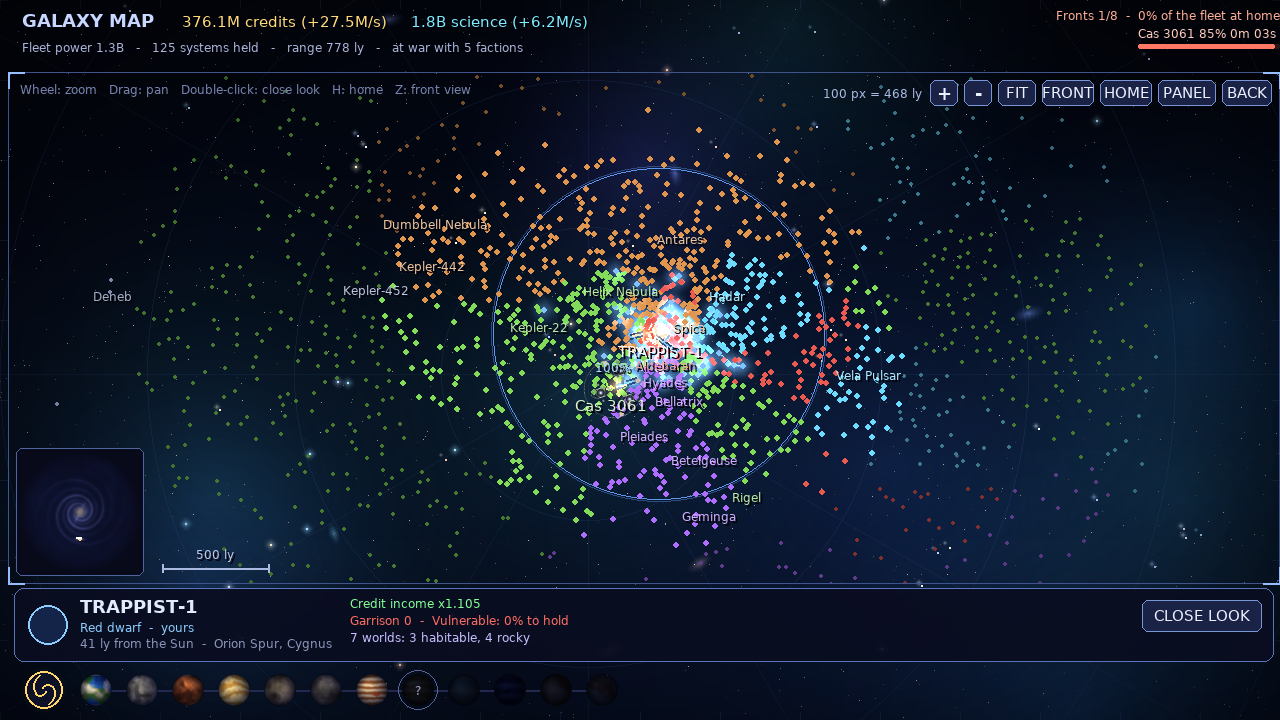
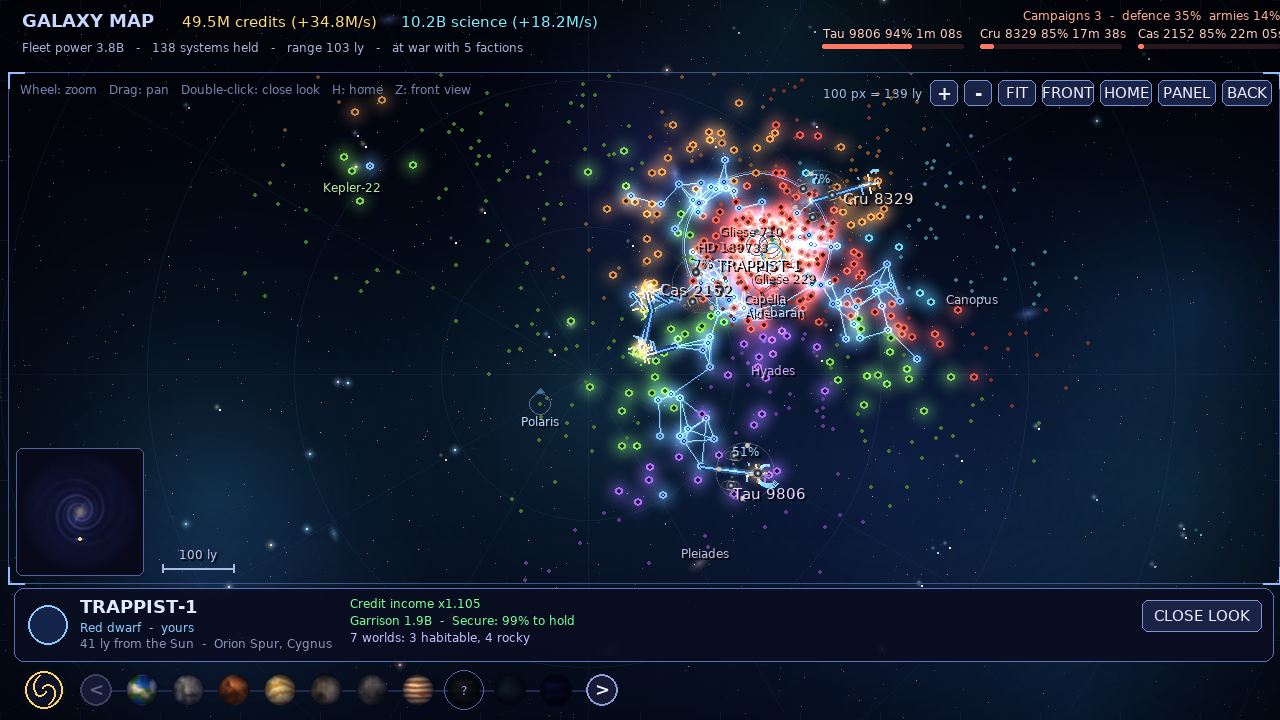
README, changelog and screenshots for the colony worlds

diff --git a/README.md b/README.md
@@ -6,7 +6,7 @@ An idle game for Linux, written in Python with [pygame](https://www.pygame.org).
 
 - **No assets, no dependencies except pygame** - every planet, ship, asteroid and effect is drawn by code at start-up.
 - **Idle-friendly** - your fleets keep mining while the game is closed (up to 8 hours), and it autosaves every 15 seconds.
-- **A lot of content** - 12 planets, 10 ship classes per planet, 68 upgrades per planet, 6 colony buildings per planet, 12 megaprojects, 31 techs, 22 Dark Matter perks, 9 kinds of random events, rotating quests, **the real Milky Way to conquer, with more than 6,000 star systems**, **New Game+ with Stardust** and **195 achievements**. Sound effects are generated by code too, and there is a developer mode for testing.
+- **A lot of content** - 12 planets in the solar system and **every world of every star you liberate (about 15,900 of them) to settle and play**, 10 ship classes per planet, 68 upgrades per planet, 6 colony buildings per planet, 12 megaprojects, 32 techs, 22 Dark Matter perks, 9 kinds of random events, rotating quests, **the real Milky Way to conquer, with more than 6,000 star systems**, **New Game+ with Stardust** and **200 achievements**. Sound effects are generated by code too, and there is a developer mode for testing.
 
 ## Download
 
@@ -222,9 +222,9 @@ The solar system ends at the **Kuiper Belt**: a dwarf world of ice with dark tho
 
 ![The Kuiper Belt and its fleet](screenshots/72-kuiper-belt.png)
 
-**The planets of other stars.** Liberating a star shows you what orbits it. Open the **Planets** tab and its **Other systems** page: every world you have found, nearest star first, with filters (*All*, *Habitable*, *Rocky*, *Giants*, and the star you selected on the map), a card with the world's picture, size, temperature, year and distance from its star, and a *Show on the map* button. The map's bar tells you how many worlds a system you hold has, a toast announces the stars with real planets and the first habitable world you find, and the Planets tab shows a dot while there are worlds you have not looked at.
+**The planets of other stars.** Liberating a star shows you what orbits it. Open the **Planets** tab and its **All worlds** page: every world you have found, nearest star first, with filters (*All*, *Habitable*, *Rocky*, *Giants*, and the star you selected on the map), a card with the world's picture, size, temperature, year and distance from its star, and a *Show on the map* button. The map's bar tells you how many worlds a system you hold has, a toast announces the stars with real planets and the first habitable world you find, and the Planets tab shows a dot while there are worlds you have not looked at.
 
-![The Other systems page: the real planets of TRAPPIST-1 and Proxima Centauri](screenshots/78-other-systems.png)
+![The All worlds page: the real planets of TRAPPIST-1 and Proxima Centauri](screenshots/78-all-worlds.png)
 
 About 30 of the game's real stars (TRAPPIST-1, Proxima Centauri, Kepler-186, Tau Ceti, 55 Cancri, Gliese 581 and 667...) show their **real, confirmed planets** from the [Open Exoplanet Catalogue](https://github.com/OpenExoplanetCatalogue/oec_gzip) (MIT licence): 89 in all, with their real names, sizes, temperatures, years and the year they were found. Every other star gets a generated system that fits its kind - a red dwarf several small close-in planets, a giant or a pulsar a few, a nebula or a cluster none - and it is the same every time, because it is worked out from the star and not stored in the save. Each world is sorted by its size and temperature into one of ten kinds - *temperate*, *ocean*, *rocky*, *desert*, *ice*, *lava*, *dwarf planet*, *sub-Neptune*, *ice giant* and *gas giant* (some with rings) - and has its own procedural picture.
 
@@ -232,7 +232,25 @@ About 30 of the game's real stars (TRAPPIST-1, Proxima Centauri, Kepler-186, Tau
 
 ![The map's bar names the worlds of a system you hold](screenshots/80-map-worlds.png)
 
-For now the worlds are a collection to find, not something to mine or build on: they do not change the pace of the game (only the achievements they add do, a little). They come with achievements of their own: *First Light* to *Worldbuilder* (5,000 worlds), *Goldilocks* to *A Home for Everyone* (habitable worlds), *Known Worlds* and *Exoplanet Archivist* (real planets), *Planetary Zoo* (all ten kinds) and *Seven Sisters* (liberate TRAPPIST-1).
+They come with achievements of their own: *First Light* to *Worldbuilder* (5,000 worlds), *Goldilocks* to *A Home for Everyone* (habitable worlds), *Known Worlds* and *Exoplanet Archivist* (real planets), *Planetary Zoo* (all ten kinds) and *Seven Sisters* (liberate TRAPPIST-1).
+
+#### Colony worlds: the whole galaxy is the game
+
+The twelve planets of the solar system are only the first system. **Every world of every star you liberate can be settled** and played like a planet of its own: its own ore, its own fleet, upgrades, colony buildings and planet bonus. Open the **Planets** tab and its **Colonies** page.
+
+![The Colonies page: the worlds of the stars you hold, with their prices](screenshots/81-colonies.png)
+
+- **Tiers.** Every planet has an economy *tier*: its ore is worth 10 times more per tier, and its ships and buildings are priced on it. A solar planet's tier is its place in the line (Earth 0 ... the Kuiper Belt 11). The tier of any other world follows from the **strength of its star**: a weak star near the Sun gives tier 3 worlds (Venus-class), TRAPPIST-1 tier 5 (Ceres-class), the strong and far stars tier 9 and 10.
+- **Settling.** A world costs a share of the unlock price of a solar planet of its tier, paid in the ore of the planets of the **two tiers before it** - any planet of those tiers pays, the richest you have, solar or colony - and credits. It costs 6% more for every colony you already have. If you have no planet of the tier before it yet, the world is *waiting*. The page lists the worlds that are *ready*, the ones you have *settled*, the ones *waiting*, and the worlds of the *selected star*; **Settle all** settles everything you can pay for, and the **Colonial Office** tech can settle one by itself every few seconds (*Auto-settle* on the page).
+- **Bonuses.** The first world of each of the ten kinds you settle brings that kind's planet bonus (temperate: credit income x1.1, lava: all ore x1.15, gas giant: fleet power x1.1...); later worlds of the same kind bring none. Every colony adds 0.3% to your production.
+- **Fleets.** A colony flies the ships of the solar planet its kind of world looks like: desert worlds the Mars ships, gas giants the Jupiter ones, ocean worlds the Neptune ones, with a hint of their own colour.
+- **The strip and the planet view.** The planet strip at the bottom scrolls (arrows at both ends) and shows your settled worlds after the solar planets; a colony has the same tabs as any planet (ships, upgrades, colony buildings; no megaproject), its own asteroids and its own ore.
+
+![Settled worlds: each one a planet of its own](screenshots/82-colonies-settled.png)
+
+![A colony world: TRAPPIST-1-class ocean planet mining Brinite](screenshots/83-colony-planet.png)
+
+**Why they are slow-burn.** Dozens of full planets would be dozens of engines, so a colony is built to be an empire to grow rather than a shortcut: it mines **10%** of the ore a solar planet of its tier would, its ships fight at **10%**, its Fusion Reactors and Defense Grids count 2% and its Habitat Domes and Research Labs 1%. With the balancing bot (which settles worlds as soon as it can) the game keeps its pace: the first Ascension still comes after about 45 - 55 hours and the Kuiper Belt a bit sooner than before. **Warp** keeps your colonies, **Ascension** takes them with the rest of your planets.
 
 A "Next planet" progress bar in the top-left corner shows how close you are, and hovering a planet in the bottom strip lists exactly what it costs.
 
@@ -274,7 +292,7 @@ Every planet also has one **megaproject** at the bottom of its Colony tab. It co
 
 ### 5. Tech tree
 
-Science buys the **Tech** tree: 31 techs with prerequisites. They include automatic ship buying and upgrade buying (they only ever spend up to 25% of a stockpile so you can still save for planets), automatic crate collection, big production multipliers, cheaper ships, head-start ore after a Warp and more. Techs stay forever.
+Science buys the **Tech** tree: 32 techs with prerequisites. They include automatic ship buying and upgrade buying (they only ever spend up to 25% of a stockpile so you can still save for planets), automatic crate collection, big production multipliers, cheaper ships, head-start ore after a Warp and more. Techs stay forever.
 
 ![Tech tree](screenshots/06-tech-tree.png)
 
@@ -584,7 +602,7 @@ The price of going again: in cycle *n* planets and megaprojects cost more (`1 + 
 
 ### 10. Achievements
 
-There are **195 achievements** in 12 categories: Mining, Fleet, Planets, Colony, Projects, Science, Wealth, Quests, Warp, Galaxy, General and a handful of **Secret** ones whose name and description stay hidden until you earn them.
+There are **200 achievements** in 12 categories: Mining, Fleet, Planets, Colony, Projects, Science, Wealth, Quests, Warp, Galaxy, General and a handful of **Secret** ones whose name and description stay hidden until you earn them.
 
 - Every achievement has a **tier** - bronze (+0.5% production), silver (+1%), gold (+2%) or platinum (+4%) - so completing everything is worth roughly **+200%** to all production.
 - The **Awards** tab shows a **progress bar** for every unfinished achievement, sorted so the ones closest to done are at the top. Use the category chips to filter.
@@ -628,7 +646,7 @@ Press **F1** to jump to the Dev tab and back. A red `DEV MODE` badge shows in th
 |---|---|
 | Time | Skip +1 hour / +1 day / +30 days of production, game speed x1 / x5 / x20 / x100 |
 | Resources | Add or multiply ore, credits, science and Dark Matter, **infinite resources**, **god mode** (production x1000), clear everything |
-| Planets | Unlock the next planet, unlock all, relock all but Earth |
+| Planets | Unlock the next planet, unlock all the solar planets, settle the worlds of the stars you hold (free), relock all but Earth |
 | Fleet & upgrades | Give ships to this planet or all planets, every upgrade for free |
 | Colonies & megaprojects | Max every building, build one or all megaprojects |
 | Tech, perks & quests | Research everything, grant or reset every Dark Matter perk, complete or reroll quests |
@@ -661,9 +679,9 @@ The pacing (planets, megaprojects and the march to the Galactic Centre) was tune
 | Ceres / Jupiter | 5 - 17 hours |
 | Saturn / Uranus | 15 - 33 hours |
 | Neptune / Pluto | 25 - 55 hours |
-| Kuiper Belt | 45 - 70 hours |
+| Kuiper Belt | 25 - 45 hours |
 | Every megaproject built | 50 - 100 hours |
-| The final boss (Void Throne) | 65 - 90 hours |
+| The final boss (Void Throne) | 45 - 70 hours |
 | First Ascension, then every later cycle | after the boss; cycles of ~40 - 65 hours |
 
 Enemy raids and counter-offensives are included in these numbers (the bot defends itself with Intel and Fortify); small raids that get through only cost a little ore. Warping a few times along the way speeds this up a lot. Playing less often just means the numbers go up while you are away.
@@ -704,7 +722,8 @@ Enemy raids and counter-offensives are included in these numbers (the bot defend
 | `ships.py` | The twelve per-planet ship rosters: names, descriptions, colours and how the ships fly. No pygame |
 | `galaxy.py` | The Milky Way the galaxy map is played on: every system's power and reward, the lanes, the jump range and the reach map. No pygame |
 | `worlds.py` | The planets of the other star systems: real ones from the Open Exoplanet Catalogue, generated ones for the rest, their kinds and the achievements they bring. No pygame |
-| `worldview.py` | The *Other systems* page of the Planets tab and the worlds line of the map's bar |
+| `colonies.py` | Colony worlds: turns any world into a planet you can settle (tier from the strength of its star, ore, bonus, ship family) and holds the balance numbers. No pygame |
+| `worldview.py` | The *Colonies* and *All worlds* pages of the Planets tab and the worlds line of the map's bar |
 | `milkyway.py` | The shape of the galaxy (spiral arms, bar, bulge) used to place the systems and to paint the map. No pygame |
 | `sim.py` | A greedy bot that plays the game headless and prints a pacing timeline |
 | `calibrate.py` | Searches for planet, megaproject and enemy-strength values that hit a target timeline using the bot |

diff --git a/CHANGELOG.md b/CHANGELOG.md
@@ -8,8 +8,10 @@
 - **The war while you are away.** Campaigns now keep going (and generals keep launching new ones) for up to 8 hours of absence, by the same rules as active play; the enemy still never attacks while the game is closed. The dice are saved: reloading cannot reroll a battle.
 - **The Void Throne is about 3x stronger** (a boss-only tuning knob): with the war automated and a defence that holds, the bot-played first Ascension had moved from ~75 to ~47 hours, and this brings it back to 65 - 90.
 - The Galaxy tab has three pages (War room, Generals, Defence); new dev cheats for commanders; the balancing bot gives its generals orders and stands the defence down for the Void Throne.
-- **The planets of other stars.** Liberating a star now shows what orbits it. The Planets tab has a new *Other systems* page: every world you found (nearest star first), filters for habitable, rocky and giant worlds or for the star you selected, a card with the world's picture and numbers and a *Show on the map* button; the map's bar names the worlds of a system you hold. About 30 real stars (TRAPPIST-1, Proxima Centauri, Kepler-186, Tau Ceti, 55 Cancri...) show their real confirmed planets from the Open Exoplanet Catalogue (89 in all); every other star gets a generated system that fits its kind, the same every time and not stored in the save. Ten kinds of world, each with its own procedural picture; 13 new achievements (*First Light*, *Goldilocks*, *Seven Sisters*, *Planetary Zoo*...). For now worlds are a collection: they change nothing in the pace of the game.
+- **The planets of other stars.** Liberating a star now shows what orbits it. The Planets tab has a new *All worlds* page: every world you found (nearest star first), filters for habitable, rocky and giant worlds or for the star you selected, a card with the world's picture and numbers and a *Show on the map* button; the map's bar names the worlds of a system you hold. About 30 real stars (TRAPPIST-1, Proxima Centauri, Kepler-186, Tau Ceti, 55 Cancri...) show their real confirmed planets from the Open Exoplanet Catalogue (89 in all); every other star gets a generated system that fits its kind, the same every time and not stored in the save. Ten kinds of world, each with its own procedural picture; 13 new achievements (*First Light*, *Goldilocks*, *Seven Sisters*, *Planetary Zoo*...).
 - New files: `worlds.py`, `worldview.py`, `assets/worlds.json`, `tools/make_worlds.py`.
+- **The whole galaxy is the game: settle any world of any star you hold.** The solar system is only the first system now. Every world of every liberated star (about 15,900 in the galaxy) can be settled from the new *Colonies* page of the Planets tab and played like a planet of its own: its own ore, fleet, upgrades, colony buildings and planet bonus, on an economy tier that follows from the strength of its star. A world is paid for in the ore of the two tiers before it (any planet of the tier, solar or not) and costs 6% more for every colony you hold; the first world of each of the ten kinds brings that kind's bonus. *Settle all*, a filter for the selected star and the new **Colonial Office** tech (auto-settle) keep it manageable. The planet strip scrolls and shows the worlds you settled; your planets are a list that is saved and grows (old saves load as before). Colonies are slow-burn by design (10% of the ore and of the fleet strength of a solar planet of their tier, reactors and silos count 2%, banks and labs 1%) so the pace of the game stays what it was; Warp keeps colonies, Ascension takes them. Five more achievements (*Settler* ... *A Home on Every Star*); the balancing bot settles worlds (`col=0` turns it off, `colmax=N` caps it).
+- Under the hood: a game keeps its own tables of planets (`g.sites`, `g.sc`, `g.tier`...), `ships.py` is indexed by ship family, `director`, `devtools` and `sim` follow the list of planets; a cache of the upgrade totals makes recalculating many planets cheap.
 
 ## 1.1.0
 
